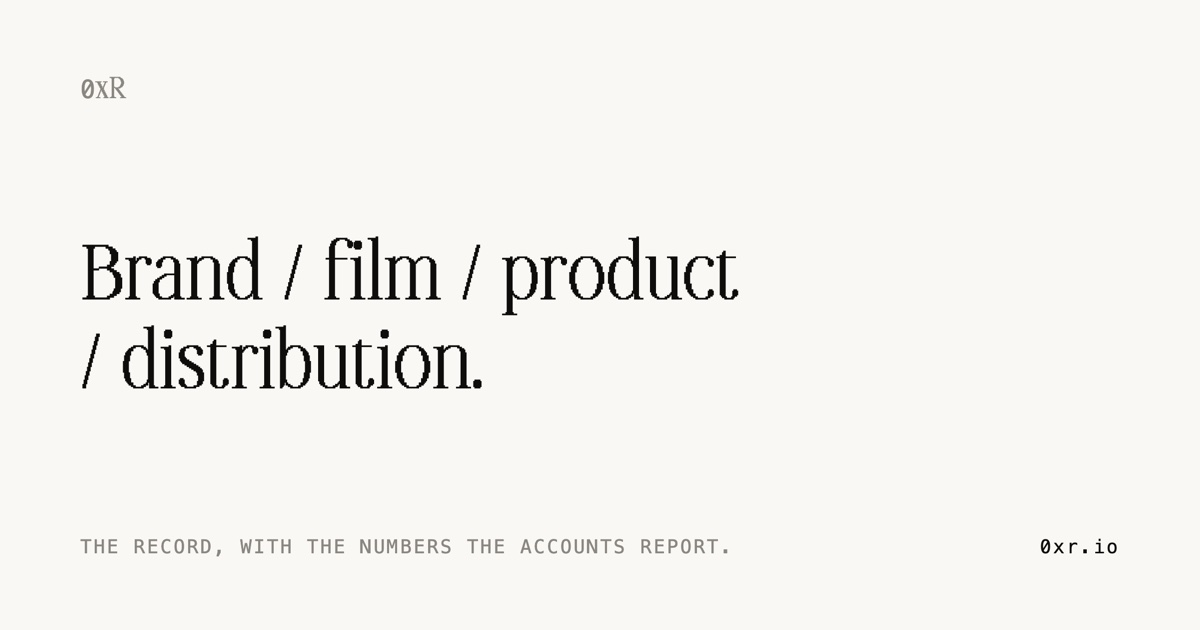
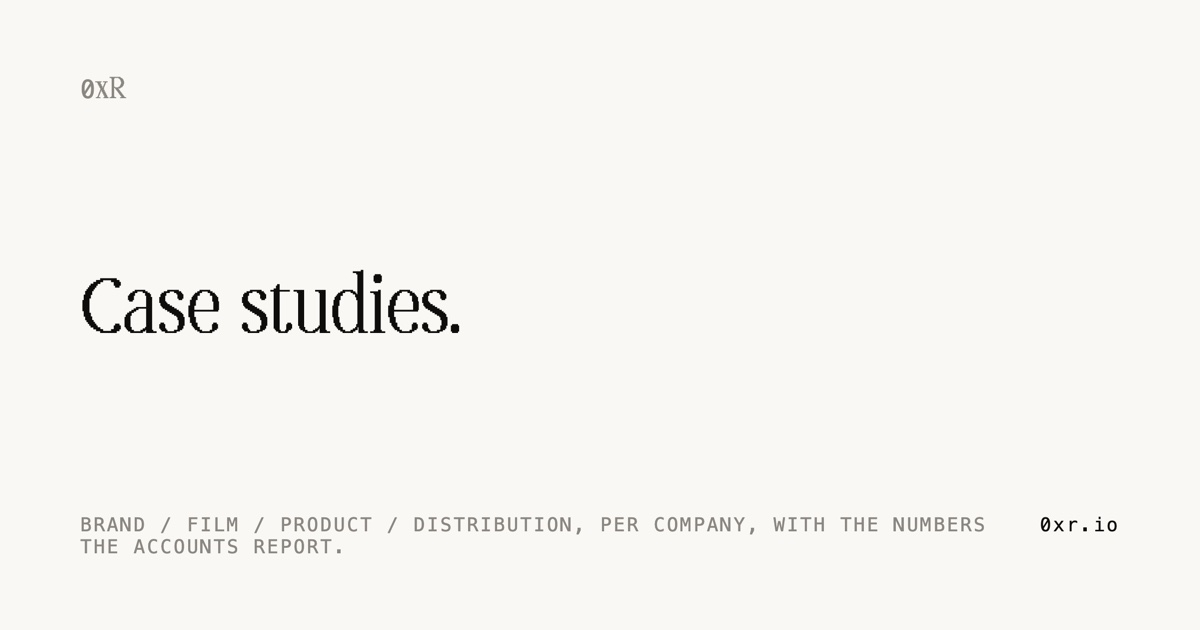
fix: the rows come off the home page, the record stands with his figure
The work-index rows are gone from the landing. The studio page is Case
studies: a list of names, each opening into its numbered discipline sections,
with roles and dates demoted from the summaries into the bodies. On the crew
page his figure and his record are one block, figure at the left of the story,
receipts beneath both.

diff --git a/crew.html b/crew.html
@@ -35,7 +35,10 @@
   /* ── one human, then the crew ──
      He is bracketed ( ) and they are bracketed { }, which is the whole
      argument set in type: the rule between them is the sentence's full stop. */
-  .director { margin-bottom: clamp(2rem, 6vw, 3.2rem); }
+  /* his figure and his record are one thing: the figure stands at the left
+     of his own story, and the receipts run beneath both. The roster's rule
+     still separates him from the six. */
+  .director { float: left; margin: 0 clamp(1.6rem, 5vw, 2.8rem) 0.6rem 0; }
   .director .mate { max-width: 14rem; }
   .roster {
     padding-top: clamp(2rem, 6vw, 3.2rem); border-top: 1px solid var(--rule);
@@ -70,7 +73,8 @@
   [data-state="soon"] b, [data-state="soon"] em, [data-state="soon"] span { color: var(--tone); }
 
   /* ── his record, under the crew: the founder's own receipts are the brief ── */
-  .me { margin-top: clamp(3.5rem, 10vw, 6rem); padding-top: clamp(2.2rem, 6vw, 3rem); border-top: 1px solid var(--rule); }
+  .me { margin: 0 0 clamp(2.4rem, 7vw, 3.6rem); }
+  .me::after { content: ""; display: block; clear: both; }
   .me p { max-width: 34rem; margin: 0 0 1.1rem; color: var(--ink-soft); }
   .me .lab { font-family: var(--mono); font-size: var(--t-micro); letter-spacing: 0.18em;
              text-transform: uppercase; color: var(--tone); margin-bottom: 1.2rem; }
@@ -158,6 +162,44 @@
         </button>
       </div>
 
+      <div class="me" data-reveal>
+        <p class="lab" data-scramble>The record</p>
+        <p>I cofounded Sail and Fungi and ran every surface the story travelled
+        on for both: brand, film, comms and product. Before that I cofounded
+        Boveda, where we stored 1.4 petabytes of client data on the Filecoin
+        network.</p>
+        <p>We never paid a PR agency, a design studio or an influencer. The
+        brand, the film, the comms and the product came out of a crew of one
+        human, later with many agents. That is the argument, and running it on
+        my own companies first is the only reason I can sell it.</p>
+
+      <div class="mine">
+        <div>
+          <p class="n" id="mine-impressions">&mdash;</p>
+          <p class="k">impressions since 2024<br>across all channels</p>
+        </div>
+        <div>
+          <p class="n">$1.1M+</p>
+          <p class="k">AUM on products cofounded<br>Sail and Fungi</p>
+        </div>
+        <div>
+          <p class="n">1,000+</p>
+          <p class="k">Telegram and Discord members<br>at Sail and Fungi</p>
+        </div>
+        <div>
+          <p class="n">$1M+</p>
+          <p class="k">raised as cofounder</p>
+        </div>
+        <div>
+          <p class="n">2,000+</p>
+          <p class="k">unique users<br>across Sail and Fungi</p>
+        </div>
+        <div>
+          <p class="n"><a href="https://dexscreener.com/solana/bkrvgxjsghfjw8vakhgbijpdxtr11etbo2gn7j26acbn" target="_blank" rel="noopener">$9M MC</a></p>
+          <p class="k">token launched on Solana as go-to-market for Fungi</p>
+        </div>
+      </div>
+
       <div class="roster">
       <button class="mate" data-crew="ye" aria-haspopup="dialog">
         <canvas class="fig" aria-hidden="true"></canvas>
@@ -201,43 +243,6 @@
         <p class="who"></p>
         <p class="say"></p>
       </div>
-      </div>
-      <div class="me" data-reveal>
-        <p class="lab" data-scramble>The record</p>
-        <p>I cofounded Sail and Fungi and ran every surface the story travelled
-        on for both: brand, film, comms and product. Before that I cofounded
-        Boveda, where we stored 1.4 petabytes of client data on the Filecoin
-        network.</p>
-        <p>We never paid a PR agency, a design studio or an influencer. The
-        brand, the film, the comms and the product came out of a crew of one
-        human, later with many agents. That is the argument, and running it on
-        my own companies first is the only reason I can sell it.</p>
-
-      <div class="mine">
-        <div>
-          <p class="n" id="mine-impressions">&mdash;</p>
-          <p class="k">impressions since 2024<br>across all channels</p>
-        </div>
-        <div>
-          <p class="n">$1.1M+</p>
-          <p class="k">AUM on products cofounded<br>Sail and Fungi</p>
-        </div>
-        <div>
-          <p class="n">1,000+</p>
-          <p class="k">Telegram and Discord members<br>at Sail and Fungi</p>
-        </div>
-        <div>
-          <p class="n">$1M+</p>
-          <p class="k">raised as cofounder</p>
-        </div>
-        <div>
-          <p class="n">2,000+</p>
-          <p class="k">unique users<br>across Sail and Fungi</p>
-        </div>
-        <div>
-          <p class="n"><a href="https://dexscreener.com/solana/bkrvgxjsghfjw8vakhgbijpdxtr11etbo2gn7j26acbn" target="_blank" rel="noopener">$9M MC</a></p>
-          <p class="k">token launched on Solana as go-to-market for Fungi</p>
-        </div>
       </div>
 
       <div class="brands" id="brands"></div>

diff --git a/studio.html b/studio.html
@@ -31,6 +31,8 @@
         lives inside it. Native <details> so it works without script and
         keyboard users get it for free. ── */
   .entry { border-top: 1px solid var(--rule); }
+  .role-line { font-family: var(--mono); font-size: var(--t-micro); letter-spacing: 0.14em;
+               text-transform: uppercase; color: var(--tone); margin: 0 0 1rem; }
   .entry:last-of-type { border-bottom: 1px solid var(--rule); }
   .entry > summary {
     display: grid; grid-template-columns: 2.5rem 1fr auto; gap: 0 1.2rem;
@@ -139,19 +141,19 @@
 
     <main class="page">
       <div class="wrap">
-      <h1 class="lede" data-scramble="mount" data-delay="60">The studio.</h1>
+      <h1 class="lede" data-scramble="mount" data-delay="60">Case studies.</h1>
 
-      <p class="intro" data-reveal>Four positions, and under each one the same
-      four disciplines: brand, film, product and distribution. The numbers are
-      the ones the accounts report.</p>
+      <p class="intro" data-reveal>Brand, film, product and distribution, shown
+      per company. The numbers are the ones the accounts report.</p>
 
       <details class="entry" open>
         <summary data-scramble-host>
           <span class="idx">01</span>
-          <div><h2 data-scramble="hover" data-delay="0">0xR</h2><span class="role" data-scramble>Creative studio, for clients</span></div>
+          <div><h2 data-scramble="hover" data-delay="0">0xR</h2></div>
           <span class="when">2026 &ndash; now</span>
         </summary>
         <div class="body">
+          <p class="role-line">Creative studio, for clients.</p>
           <p>A creative studio of one human and many agents. I run the story on every surface it travels
           on: brand, film, comms and product.</p>
           <p class="impact">Clients: All&eacute; Studios, Madrid streetwear,
@@ -161,10 +163,11 @@
       <details class="entry">
         <summary data-scramble-host>
           <span class="idx">02</span>
-          <div><h2 data-scramble="hover" data-delay="0">Sail</h2><span class="role" data-scramble>Cofounder and CMO</span></div>
+          <div><h2 data-scramble="hover" data-delay="0">Sail</h2></div>
           <span class="when">Oct 2025 &ndash; now</span>
         </summary>
         <div class="body">
+          <p class="role-line">Cofounder and CMO.</p>
           <p>Rebranded Fungi into Sail and took the yield agent
           institutional. It was the first agent to run swaps and bridges
           autonomously and without custody, and it <a href="https://x.com/SaildotMoney/status/2042315862229577747"
@@ -186,10 +189,11 @@
       <details class="entry">
         <summary data-scramble-host>
           <span class="idx">03</span>
-          <div><h2 data-scramble="hover" data-delay="0">Fungi</h2><span class="role" data-scramble>Cofounder and CMO</span></div>
+          <div><h2 data-scramble="hover" data-delay="0">Fungi</h2></div>
           <span class="when">Dec 2023 &ndash; Oct 2025</span>
         </summary>
         <div class="body">
+          <p class="role-line">Cofounder and CMO.</p>
           <p>Started as a natural language interface for DeFi, a ChatGPT for
           crypto that executed onchain actions in plain English. The token
           launched as go-to-market reached $9M market cap on Solana, with a
@@ -204,10 +208,11 @@
       <details class="entry">
         <summary data-scramble-host>
           <span class="idx">04</span>
-          <div><h2 data-scramble="hover" data-delay="0">Boveda</h2><span class="role" data-scramble>Cofounder</span></div>
+          <div><h2 data-scramble="hover" data-delay="0">Boveda</h2></div>
           <span class="when">Mar 2022 &ndash; Nov 2023</span>
         </summary>
         <div class="body">
+          <p class="role-line">Cofounder.</p>
           <p>Decentralized storage on the Filecoin network. Ran both sides of
           a B2B market: the companies with data to store, and the partners who
           could store it. Won 1.4 petabytes from clients including

diff --git a/index.html b/index.html
@@ -85,33 +85,6 @@
   :root { --terrain: 44vh; }
   @media (max-height: 760px), (max-width: 700px) { :root { --terrain: 34vh; } }
 
-  /* ── the index of the work: a row is a name, a line, and a count ──
-     Butcher's shape at visualizevalue.com/studio: no thumbnails at the top
-     level, because a count a reader can check sells harder than a crop. */
-  .work { padding: clamp(3rem, 9vw, 5rem) 0 0; }
-  .rows { display: grid; }
-  .row {
-    display: grid; grid-template-columns: 8.5rem 1fr auto; gap: 0.3rem 1.4rem;
-    align-items: baseline; padding: 1.1rem 0; border-top: 1px solid var(--rule);
-    text-decoration: none; color: inherit; transition: background 0.25s ease;
-  }
-  .row:last-child { border-bottom: 1px solid var(--rule); }
-  .row:hover, .row:focus-visible { background: var(--tile-bg); }
-  .row b {
-    font-family: var(--mono); font-weight: 500; font-size: var(--t-micro);
-    letter-spacing: 0.16em; text-transform: uppercase; color: var(--ink);
-  }
-  .row em { font-style: normal; font-size: var(--t-small); color: var(--ink-soft); max-width: 34rem; }
-  .row span {
-    font-family: var(--mono); font-size: var(--t-micro); letter-spacing: 0.12em;
-    text-transform: uppercase; color: var(--tone); white-space: nowrap;
-  }
-  .row:hover span, .row:focus-visible span { color: var(--ink); }
-  @media (max-width: 620px) {
-    .row { grid-template-columns: 1fr auto; }
-    .row em { grid-column: 1 / -1; }
-  }
-
   /* ── the films: every clip, with the number it earned ── */
   .films { background: var(--paper); }
   /* padding-block only: the shorthand zeroed the horizontal padding that
@@ -280,25 +253,6 @@
     </div>
 </header>
 
-    <section class="work" aria-label="the work">
-      <div class="wrap">
-        <p class="label" data-scramble>The work</p>
-        <div class="rows">
-          <a class="row" href="studio.html#brand">
-            <b>Brand</b><em>Marks, type and the guidelines other people build inside.</em><span>Sail / Fungi</span>
-          </a>
-          <a class="row" href="#films">
-            <b>Film</b><em>AI films with a per-post audit trail, since December.</em><span>19 films</span>
-          </a>
-          <a class="row" href="studio.html#product">
-            <b>Product</b><em>Interfaces, landing pages and the first run before there is data.</em><span>Two products shipped</span>
-          </a>
-          <a class="row" href="studio.html#distribution">
-            <b>Distribution</b><em>A token launch, a 24-hour livestream, and the ecosystem that carried them.</em><span>12 partners</span>
-          </a>
-        </div>
-      </div>
-    </section>
 
     <section class="films" id="films" aria-label="AI films">
       <div class="wrap head">
@@ -322,22 +276,6 @@
       </div>
     </section>
     <div class="wrap">
-    <section class="work" aria-label="the record">
-      <div class="wrap">
-        <p class="label" data-scramble>The record</p>
-        <div class="rows">
-          <a class="row" href="studio.html">
-            <b>Positions</b><em>0xR, Sail, Fungi and Boveda, and what each one reached.</em><span>2022 &ndash; now</span>
-          </a>
-          <a class="row" href="crew.html">
-            <b>The crew</b><em>Six agents, one job each, and the human who directs them.</em><span>Seven</span>
-          </a>
-          <a class="row" href="thesis.html">
-            <b>The thesis</b><em>Why every company becomes a media company, and why that got affordable.</em><span>The argument</span>
-          </a>
-        </div>
-      </div>
-    </section>
 
       <div class="next" data-reveal>
         <p class="label" data-scramble>Start here</p>
